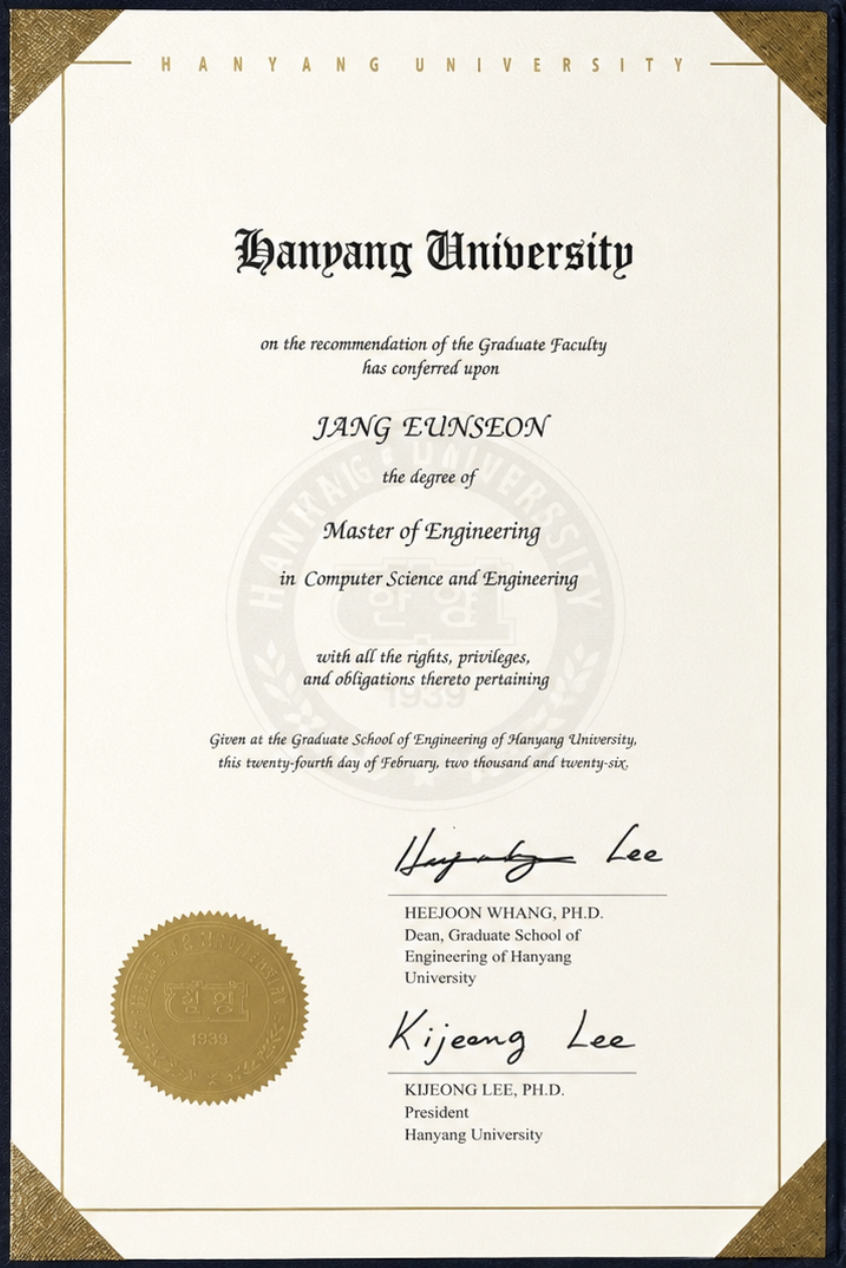
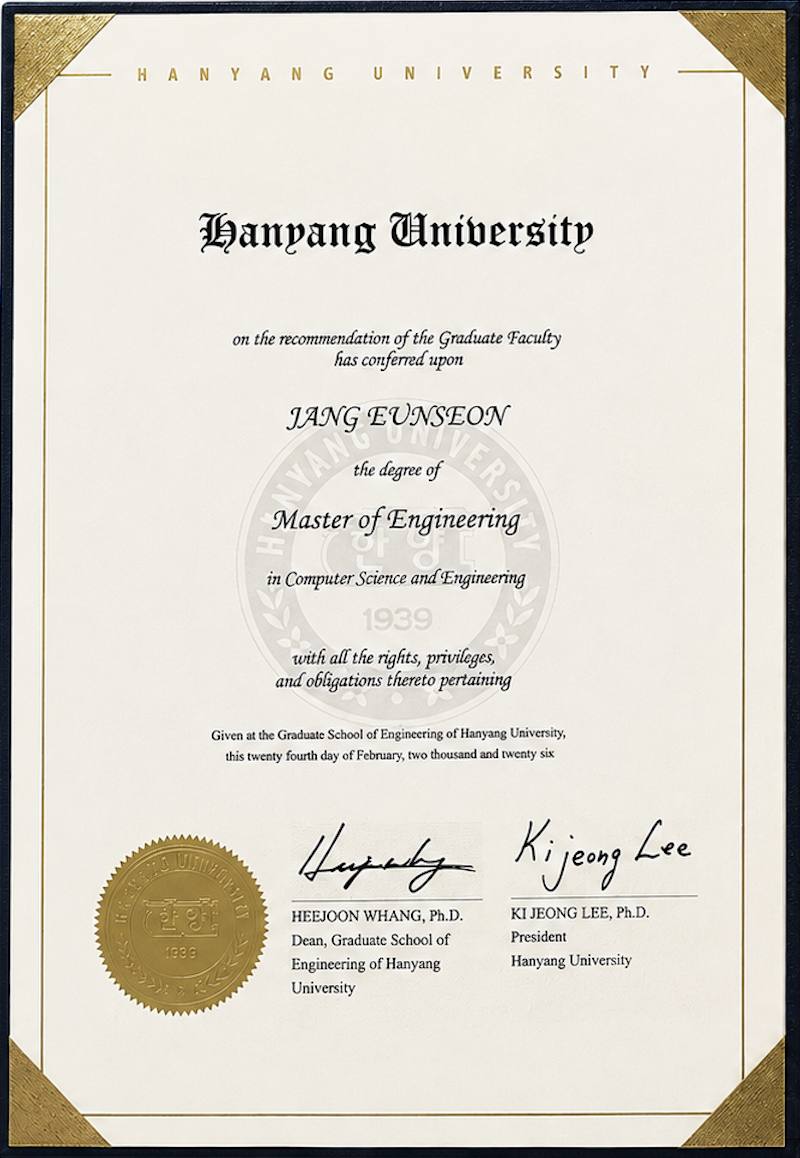
Update eunseon degree image and fix footer nav alignment

Changed region(s): [[0.0, 0.0, 1.0, 1.0], [0.25, 0.1554, 0.75, 0.2176], [0.7188, 0.6528, 0.7812, 0.6839]]

diff --git a/app/globals.css b/app/globals.css
@@ -2123,7 +2123,7 @@ html, body {
 .footer-email:hover { color: #a78bfa; }
 
 .footer-nav {
-  @apply flex gap-16 flex-1;
+  @apply flex gap-16 flex-1 justify-end;
 }
 
 .footer-nav-group { @apply flex flex-col; }
